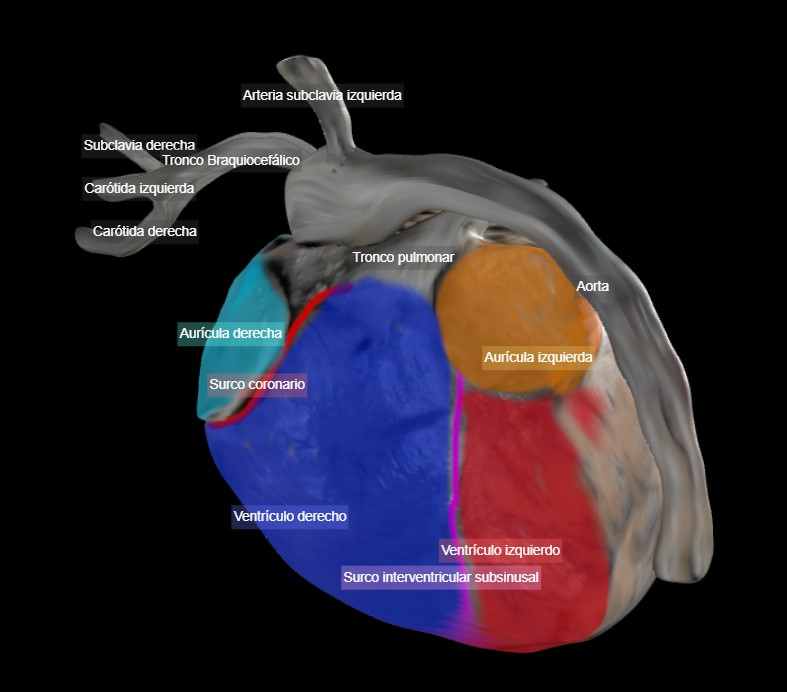
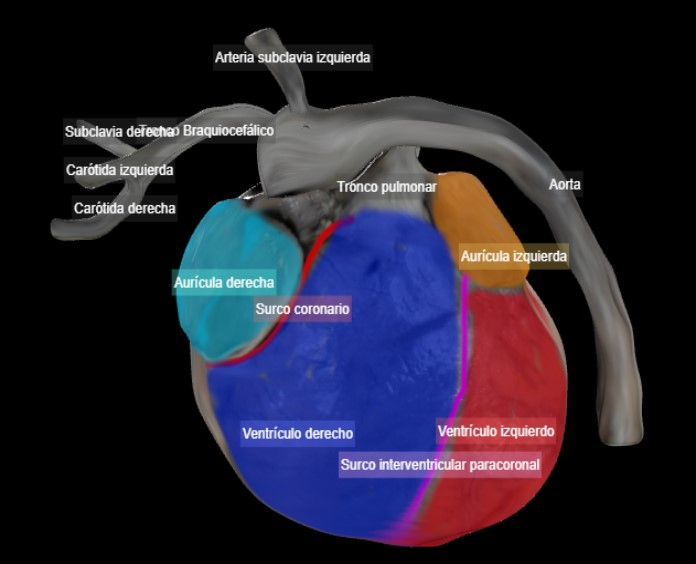
correcciones

diff --git a/Public/organos/encefalo/encefalo10.html b/Public/organos/encefalo/encefalo10.html
@@ -25,16 +25,16 @@
    </image>
    <image style="display:none;overflow:visible;opacity:0.7;" width="4829" height="3306" xlink:href="../11 Estructuras tallo encefálico FONDO NEGRO.JPG"  transform="matrix(0.24 0 0 0.24 -12 -18)">
    </image>
-   <path id="Cuerpos geniculados mediales " class="st0" style="fill:#F98903;" d="M477.5,223.5c0,0-14,1.5-21,8.5s-23,32-29.5,44.5s-18.5,31.5-16,38
+   <path id="Cuerpo geniculado medial " class="st0" style="fill:#F98903;" d="M477.5,223.5c0,0-14,1.5-21,8.5s-23,32-29.5,44.5s-18.5,31.5-16,38
       s6,14.5,13,10.5s37-31,37-31s17.5-22,20.5-24s3-6.5,3-10s-4-22-4.5-25S477.5,223.5,477.5,223.5z"/>
-   <path id="Cuerpos geniculados mediales" class="st0" style="fill:#F98903;" d="M416,434.6c0,0-8,11-8.5,20s-3.5,9.5-2.5,19.5s5.5,15,11,21.5
+   <path id="Cuerpo geniculado medial" class="st0" style="fill:#F98903;" d="M416,434.6c0,0-8,11-8.5,20s-3.5,9.5-2.5,19.5s5.5,15,11,21.5
       s28.1,25.9,30.6,29.4s12.4,11.1,17.9,15.6s20,7,22.5,4s8-14.5,8-14.5s-1-12-3-16.5c-2-4.5-15-24.5-19.5-29.5s-15-9-15.5-16.5
       s-2.8-15-10.4-23s-14.6-14-18.1-14.5S416,434.6,416,434.6z"/>
 
-   <path id="Cuerpos geniculados laterales" class="st0" style="fill:#5CE5FF;"  d="M491,274.8c0,0-23,19.7-29,28.2s-13.3,18.1-14.4,23.1
+   <path id="Cuerpo geniculado lateral" class="st0" style="fill:#5CE5FF;"  d="M491,274.8c0,0-23,19.7-29,28.2s-13.3,18.1-14.4,23.1
       c-1.1,4.9-6.4,8.4,0,14.9s12.4,14,17.9,5.5s20.5-31,25.5-37.5s8.5-12,9-16.5s1.5-10,0-11.5S491,274.8,491,274.8z"/>
 
-   <path id="Cuerpos geniculados laterales" class="st0" style="fill:#5CE5FF;" d="M475,452c-6,1.5-12.5,1-13.5,6.5s-7.1,2.1-3.5,9s15.5,16.5,15.5,16.5
+   <path id="Cuerpo geniculado lateral" class="st0" style="fill:#5CE5FF;" d="M475,452c-6,1.5-12.5,1-13.5,6.5s-7.1,2.1-3.5,9s15.5,16.5,15.5,16.5
       s10.4,14.5,12.8,18.1c2.3,3.7,7.2,17.4,9.7,17.9s6.9-3.6,9.3-6.3c3-3.3,4.7-8.2,4.7-8.2s-1.5-6-2.5-12s-3.1-11.4-4.7-18.5
       c-1.8-7.8-0.8-11.5-4.3-13.5s-10-9.5-14-9.5S475,452,475,452z"/>
 
@@ -56,7 +56,7 @@
       c-0.7,3.3-4.3,8-8.7,9c-4.3,1-9.9,0-9.9,0s6.5-7.2,9.3-14c2.6-6.5,3.3-15.7,2-21.3c-1.1-4.6-5.3-5.9-8.6-10.7
       c-3-4.4-10.4-8.3-13.1-9.9c-2.7-1.7-16-4.6-16-4.6h-4.3L506.7,314.7z"/>
 
-   <path class="st0" id="Lobulo cerebeloso"  style="fill:#06FF23;" d="M570.7,280.9c0,0,5-12.5,6.3-21.9c1.3-9.3,2.3-20.3,4-23s2.7-12.7,6.3-15c3.7-2.3,17.3-9,20.7-11.3
+   <path class="st0" id="Lóbulo cerebeloso"  style="fill:#06FF23;" d="M570.7,280.9c0,0,5-12.5,6.3-21.9c1.3-9.3,2.3-20.3,4-23s2.7-12.7,6.3-15c3.7-2.3,17.3-9,20.7-11.3
       c3.3-2.3,10-10,12-11s13.7-5.7,16.7-8.7s16.3-7.7,21.7-11.3c0,0,15-8.7,19.3-11.7c4.3-3,7.7-8.7,14.3-9.3c6.7-0.7,22.3,3.3,26.7,6.7
       c4.3,3.3,18.3,8.7,23.3,13.3c5,4.7,17.7,13.7,22,16.3s7.3,3.7,11.7,8c4.3,4.3,3,0.3,8,7s8.7,15,10.3,17.3c1.7,2.3,5,8.3,6.7,10.3
       c1.7,2,7.7,4,9.3,7.3s1.3,5.3,3.7,13c2.3,7.7,0,4.5,4.7,13.2c4.7,8.7,5.3,10.8,6.5,17.2c0.9,4.9,2.3,10.7,6.7,12.2
@@ -65,7 +65,7 @@
       c-13.3-6.1-16.7-8-28.3-10.3c-13.4-2.7-46.3,1.7-49.5,2c-3.6,0.4-16.6,2.4-23.8,5.6c-6.9,3.1-6.7,3.7-11.4,7s-8.1,6.8-8.1,6.8
       s-0.5-3.7-1.6-6.1c-1.5-3-1.3-2.4-4.2-5c-1.2-1-2.6-1.9-8.3-1.9c-5.9,0-17.3,1.6-11.6,0.8c5-0.8-5.7,1.7-6.3,1.9L570.7,280.9z"/>
 
-   <path class="st0" id="Lobulo cerebeloso"  style="fill:#06FF23;" d="M607.9,463.8c0,0,7,6.2,16,8.8c9,2.7,20.8-1.3,28.9-4.3c7.7-2.8,21.8-4.4,30.8-6.4c8.6-1.9,22.8-7,26.4-10.8
+   <path class="st0" id="Lóbulo cerebeloso"  style="fill:#06FF23;" d="M607.9,463.8c0,0,7,6.2,16,8.8c9,2.7,20.8-1.3,28.9-4.3c7.7-2.8,21.8-4.4,30.8-6.4c8.6-1.9,22.8-7,26.4-10.8
       c3.7-3.8,18.4-15.7,20.8-17.3c2.9-2,6.8-8.4,19.1-4.7c11.6,3.6,9,9.4,12,12.4s3.1,4.5,9.3,5.7c6.1,1.1,9.6,0.8,20-3.7
       c5.8-2.5,5.2-2.3,17.7-6.2c7.3-2.3,13.6-3.5,20.3-3.8c6.7-0.3,15.3-2,21,0.7s8.3,3,8.3,5s-0.3,8.2-5.7,11.8
       c-5.3,3.6-5.3,9.6-9.7,16.9c-4.3,7.3-11.3,12.3-16.3,15.7c-5,3.3-6.7,5-11,13.7c-4.3,8.7-11.7,18-15,26.7c-3.3,8.7-4.4,15.3-10,22.7

diff --git a/Public/organos/corazon/corazon3.html b/Public/organos/corazon/corazon3.html
@@ -22,7 +22,7 @@
 	</g>
 	<g id="Capa_2">
 		<path id="Surco coronario" class="line" style="fill:none;stroke:#FFFF00;stroke-width:5;stroke-miterlimit:10;" d="M210.3,310c0,0,55.3,12.3,91.7,6s46.3-9.7,62.7-14.3c16.3-4.7,73-29,78-31s29.7-25.7,29.7-25.7"/>
-		<path id="Surco interventricular subsinosal" class="line" style="fill:none;stroke:#00FFFF;stroke-width:5;stroke-miterlimit:10;"  d="M273,320.3c0,0,1.3,25,14,42.3c12.7,17.3,13.3,14.3,26.3,31.6c13,17.3,28.5,37.5,29.9,42.5
+		<path id="Surco interventricular subsinusal" class="line" style="fill:none;stroke:#00FFFF;stroke-width:5;stroke-miterlimit:10;"  d="M273,320.3c0,0,1.3,25,14,42.3c12.7,17.3,13.3,14.3,26.3,31.6c13,17.3,28.5,37.5,29.9,42.5
 			c1.3,5,38.6,59.9,38.6,59.9"/>
 	</g>
 	</svg>
